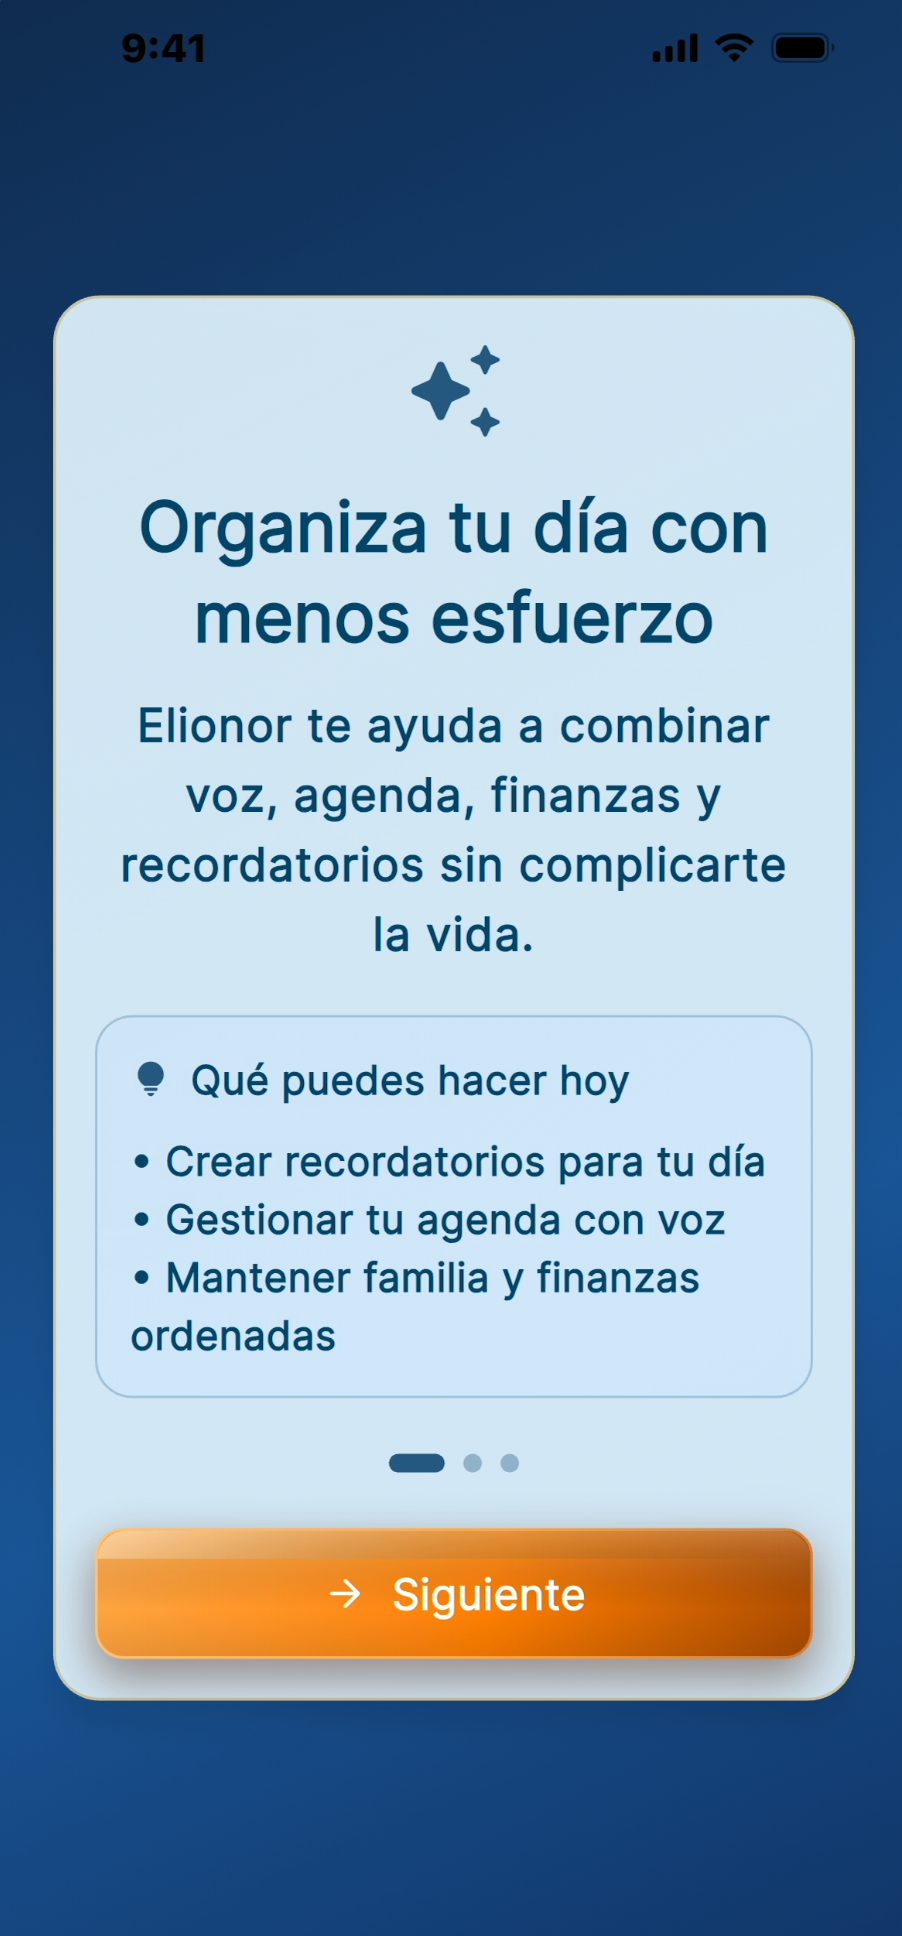
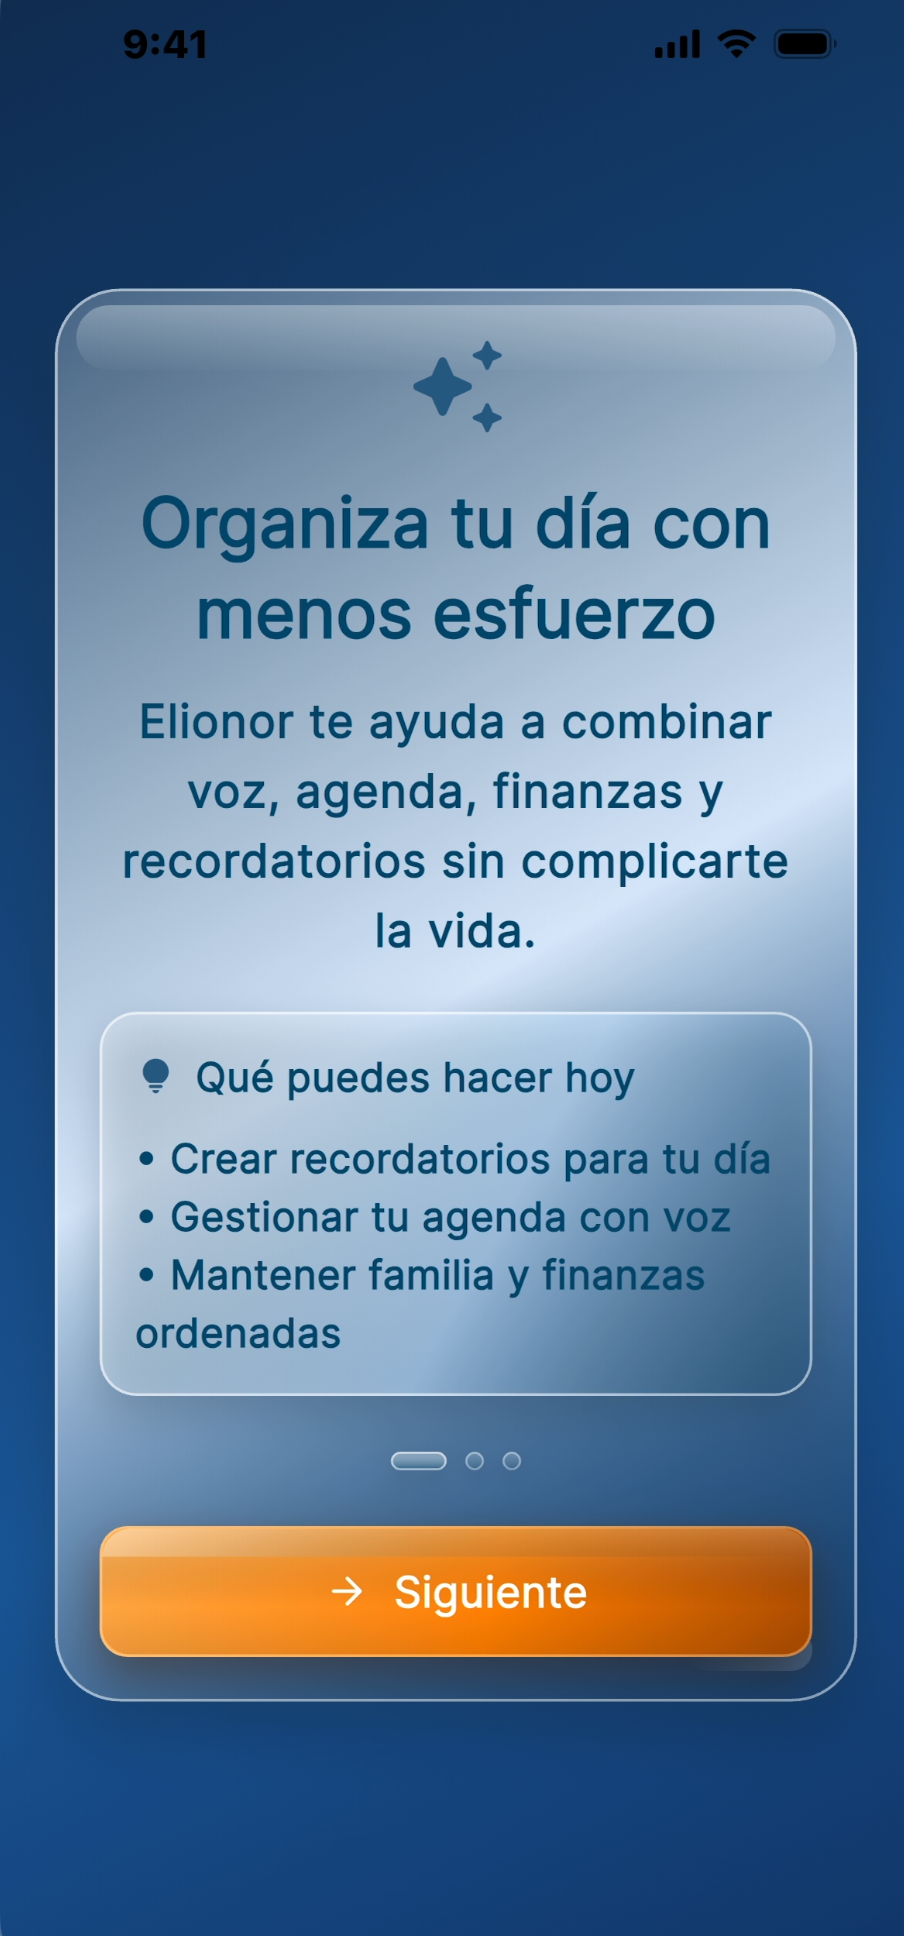
Landing: update onboarding screenshots and cache-bust URLs

diff --git a/index.html b/index.html
@@ -855,15 +855,15 @@
             </div>
           </div>
           <div class="screen-card">
-            <img src="screenshots/onboarding1.png" alt="Onboarding paso 1" />
+            <img src="screenshots/onboarding1.png?v=20260731b" alt="Onboarding paso 1" />
             <div class="screen-caption">Onboarding 1</div>
           </div>
           <div class="screen-card">
-            <img src="screenshots/onboarding2.png" alt="Onboarding paso 2" />
+            <img src="screenshots/onboarding2.png?v=20260731b" alt="Onboarding paso 2" />
             <div class="screen-caption">Onboarding 2</div>
           </div>
           <div class="screen-card">
-            <img src="screenshots/onboarding3.png" alt="Onboarding paso 3" />
+            <img src="screenshots/onboarding3.png?v=20260731b" alt="Onboarding paso 3" />
             <div class="screen-caption">Onboarding 3</div>
           </div>
           <div class="screen-card">
